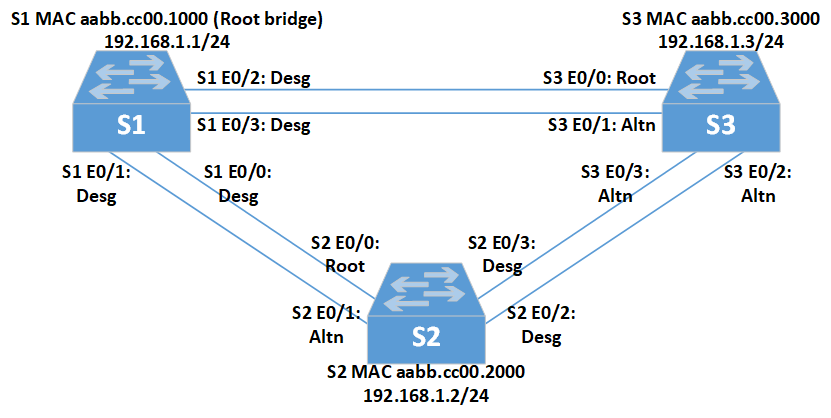
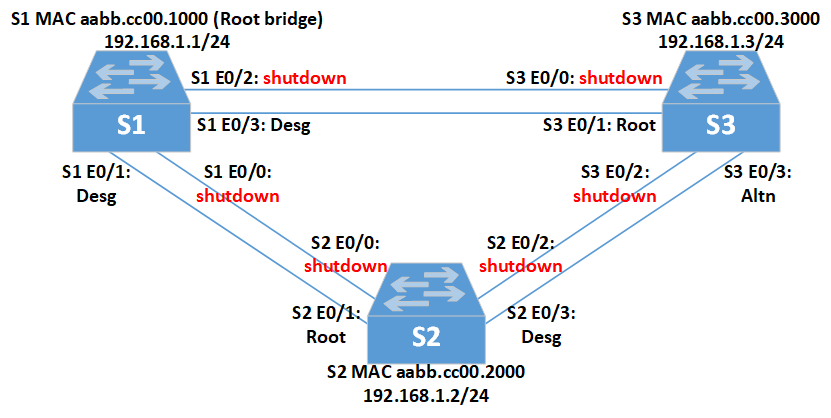
Сщььше 10

diff --git a/Labs/Hw02/README.md b/Labs/Hw02/README.md
@@ -146,7 +146,7 @@ Success rate is 100 percent (5/5), round-trip min/avg/max = 1/1/1 ms
 
 ### Шаг 1. Отключить все порты на коммутаторах
 ### Шаг 2. Настроить подключенные порты в качестве транковых
-### Шаг 3. Включить транковые порты на всех коммутаторах
+### Шаг 3. Включить порты E0/1 и E0/3 на всех коммутаторах
 ### Шаг 4. Отобразить данные протокола spanning-tree
 
 ### S1:
@@ -159,6 +159,7 @@ Building configuration...
 interface Ethernet0/0
  switchport trunk encapsulation dot1q
  switchport mode trunk
+ shutdown
 !
 interface Ethernet0/1
  switchport trunk encapsulation dot1q
@@ -167,6 +168,7 @@ interface Ethernet0/1
 interface Ethernet0/2
  switchport trunk encapsulation dot1q
  switchport mode trunk
+ shutdown
 !
 interface Ethernet0/3
  switchport trunk encapsulation dot1q
@@ -194,9 +196,7 @@ VLAN0001
 
 Interface           Role Sts Cost      Prio.Nbr Type
 ------------------- ---- --- --------- -------- --------------------------------
-Et0/0               Desg FWD 100       128.1    Shr
 Et0/1               Desg FWD 100       128.2    Shr
-Et0/2               Desg FWD 100       128.3    Shr
 Et0/3               Desg FWD 100       128.4    Shr
 ```
 
@@ -210,6 +210,7 @@ Building configuration...
 interface Ethernet0/0
  switchport trunk encapsulation dot1q
  switchport mode trunk
+ shutdown
 !
 interface Ethernet0/1
  switchport trunk encapsulation dot1q
@@ -218,6 +219,7 @@ interface Ethernet0/1
 interface Ethernet0/2
  switchport trunk encapsulation dot1q
  switchport mode trunk
+ shutdown
 !
 interface Ethernet0/3
  switchport trunk encapsulation dot1q
@@ -236,7 +238,7 @@ VLAN0001
   Root ID    Priority    32769
              Address     aabb.cc00.1000
              Cost        100
-             Port        1 (Ethernet0/0)
+             Port        2 (Ethernet0/1)
              Hello Time   2 sec  Max Age 20 sec  Forward Delay 15 sec
 
   Bridge ID  Priority    32769  (priority 32768 sys-id-ext 1)
@@ -246,9 +248,7 @@ VLAN0001
 
 Interface           Role Sts Cost      Prio.Nbr Type
 ------------------- ---- --- --------- -------- --------------------------------
-Et0/0               Root FWD 100       128.1    Shr
-Et0/1               Altn BLK 100       128.2    Shr
-Et0/2               Desg FWD 100       128.3    Shr
+Et0/1               Root FWD 100       128.2    Shr
 Et0/3               Desg FWD 100       128.4    Shr
 ```
 
@@ -262,6 +262,7 @@ Building configuration...
 interface Ethernet0/0
  switchport trunk encapsulation dot1q
  switchport mode trunk
+ shutdown
 !
 interface Ethernet0/1
  switchport trunk encapsulation dot1q
@@ -270,6 +271,7 @@ interface Ethernet0/1
 interface Ethernet0/2
  switchport trunk encapsulation dot1q
  switchport mode trunk
+ shutdown
 !
 interface Ethernet0/3
  switchport trunk encapsulation dot1q
@@ -288,7 +290,7 @@ VLAN0001
   Root ID    Priority    32769
              Address     aabb.cc00.1000
              Cost        100
-             Port        1 (Ethernet0/0)
+             Port        2 (Ethernet0/1)
              Hello Time   2 sec  Max Age 20 sec  Forward Delay 15 sec
 
   Bridge ID  Priority    32769  (priority 32768 sys-id-ext 1)
@@ -298,9 +300,7 @@ VLAN0001
 
 Interface           Role Sts Cost      Prio.Nbr Type
 ------------------- ---- --- --------- -------- --------------------------------
-Et0/0               Root FWD 100       128.1    Shr
-Et0/1               Altn BLK 100       128.2    Shr
-Et0/2               Altn BLK 100       128.3    Shr
+Et0/1               Root FWD 100       128.2    Shr
 Et0/3               Altn BLK 100       128.4    Shr
 ```
 
@@ -309,17 +309,17 @@ Et0/3               Altn BLK 100       128.4    Shr
 ![](https://github.com/sergl352130/OTUS_NE_Homeworks/blob/main/Labs/Hw02/STP_topology_1.png?raw=true)
 
   1. #### Какой коммутатор является корневым мостом?
-     + В данной конфигурации корневым является коммутатор S1
+     + В данной конфигурации корневым является коммутатор S1.
   2. #### Почему этот коммутатор был выбран протоколом spanning-tree в качестве корневого моста?
-     + Потому что данный коммутатор обладает наименьшим МАС-адресом
+     + Потому что у него наименьший Bridge ID (BID = Bridge Priority + System Extension + MAC). Так как в этой сети Bridge Priority у всех коммутаторов одинаковый (32768), sys-id-ext, который равен VLAN ID, тоже одинаковый (1), наименьший BID у коммутатора S1 с наименьшим МАС-адресом (aabb.cc00.1000).
   3. #### Какие порты на коммутаторе являются корневыми портами?
-     + Корневыми (root) являются порты, ближайшие к корневому мосту по общей стоимости (cost) пути к нему 
+     + Корневыми (root) являются порты, ближайшие к корневому мосту по общей стоимости (cost) пути к нему.
   4. #### Какие порты на коммутаторе являются назначенными портами?
-     + Назначенными (designated) являются порты, которые имеют наилучший путь для приема трафика, ведущего к корневому мосту
+     + Назначенными (designated) являются порты, которые имеют наилучший путь для приема трафика, ведущего к корневому мосту.
   5. #### Какой порт отображается в качестве альтернативного и в настоящее время заблокирован?
-     + Альтернативными (alternate) становятся порты, которые не являются корневыми или назначенными
+     + Альтернативными (alternate) становятся порты, которые не являются корневыми или назначенными.
   6. #### Почему протокол spanning-tree выбрал этот порт в качестве невыделенного (заблокированного) порта?
-     + Альтернативные порты блокируются протоколом spanning-tree для предотвращения петель на L2
+     + Учитывая, что пути к S1 (root bridge) от портов S2:E0/3 и S3:E0/3 по стоимости (cost) равнозначны, при выборе designated порта был принят во внимание Port ID, который включает Port Priority и номер порта. Port Priority одинаковые, а в целом Port ID меньший у порта S2:E0/3, так как путь к S1 проходит через порты с номерами S2:E0/3-S2:E0/1-S1:E0/1. У порта S3:E0/3 путь к S1 проходит через порты с номерами S3:E0/3-S3:E0/1-S1:E0/3, соответственно Port ID больше и порт Е0/3 коммутатора S3 выбран alternate и заблокирован.
 
 
 ## Часть 3. Наблюдение за процессом выбора протоколом STP порта, исходя из стоимости портов
